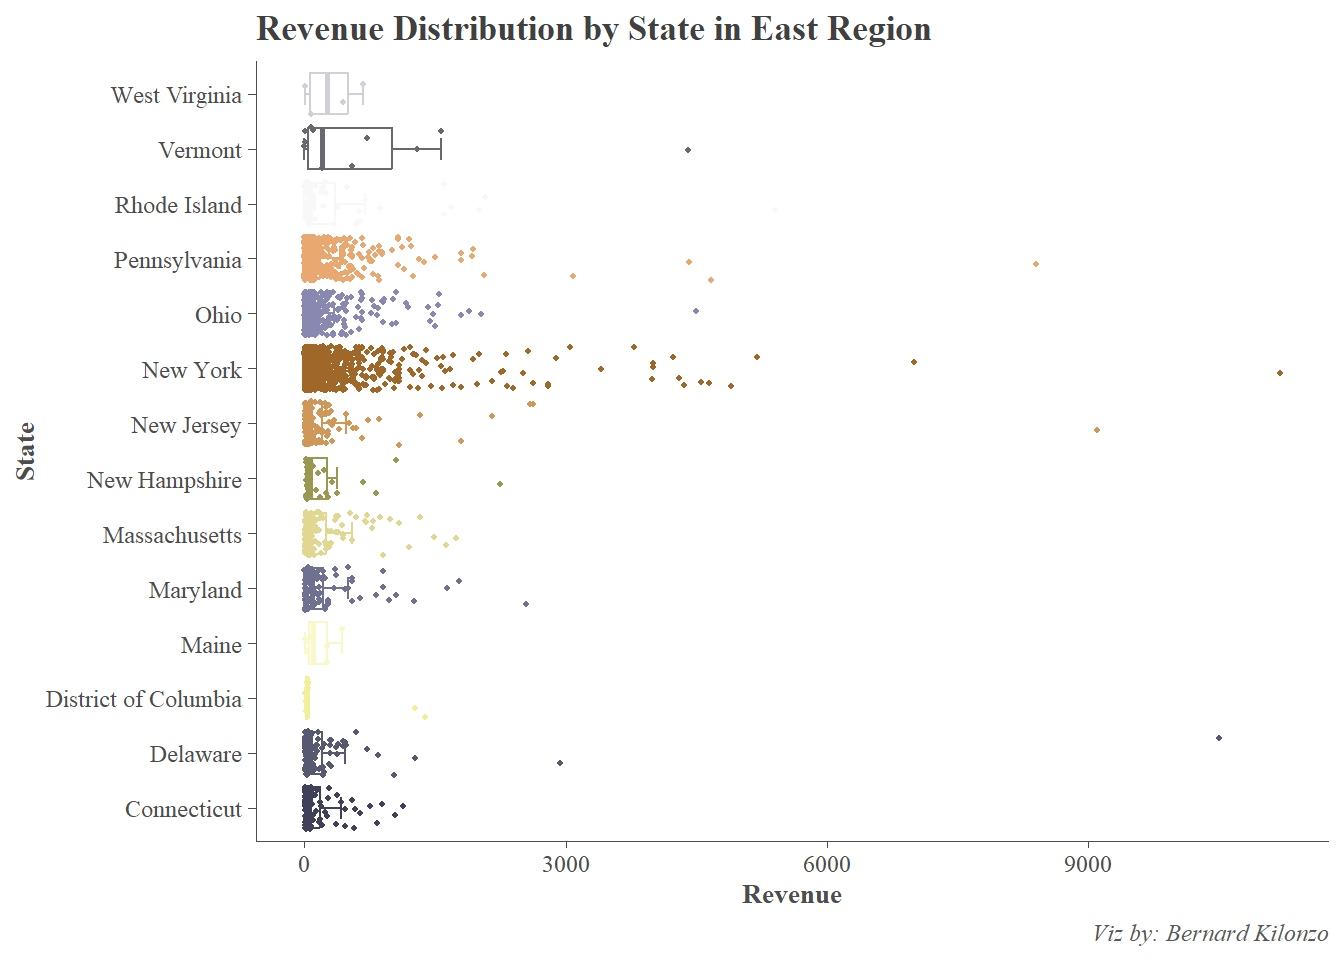
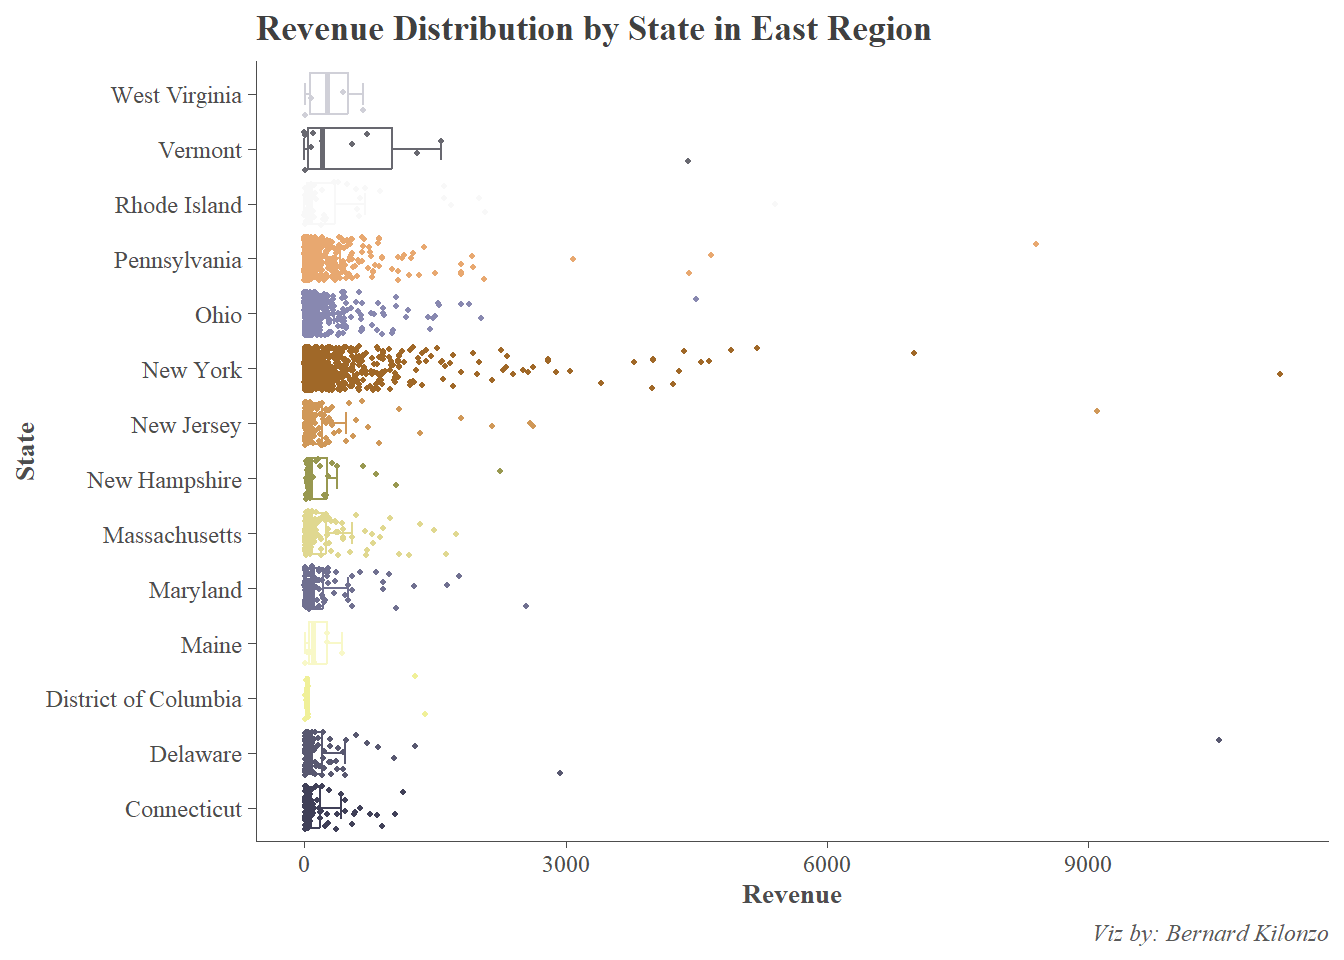
creating jitter box plot for Central Region.

diff --git a/Report Customization/Report_Dashboard_Customization.html b/Report Customization/Report_Dashboard_Customization.html
@@ -7,7 +7,7 @@
 <meta name="viewport" content="width=device-width, initial-scale=1.0, user-scalable=yes">
 
 <meta name="author" content="Bernard Kilonzo">
-<meta name="dcterms.date" content="2026-10-20">
+<meta name="dcterms.date" content="2026-10-21">
 
 <title>Report &amp; Dashboard Customization</title>
 <style>
@@ -283,7 +283,7 @@ background: #023743;
                 <div>
             <div class="quarto-title-meta-heading">Published</div>
             <div class="quarto-title-meta-contents">
-              <p class="date">October 20, 2026</p>
+              <p class="date">October 21, 2026</p>
             </div>
           </div>
           
@@ -856,6 +856,34 @@ background: #023743;
 <div>
 <figure class="figure">
 <p><img src="Report_Dashboard_Customization_files/figure-html/unnamed-chunk-17-1.png" class="img-fluid figure-img" width="672"></p>
+</figure>
+</div>
+</div>
+</div>
+<div class="cell">
+<details class="code-fold">
+<summary>Show the code</summary>
+<div class="sourceCode cell-code" id="cb18"><pre class="sourceCode r code-with-copy"><code class="sourceCode r"><span id="cb18-1"><a href="#cb18-1" aria-hidden="true" tabindex="-1"></a><span class="co">#creating jitter box plot</span></span>
+<span id="cb18-2"><a href="#cb18-2" aria-hidden="true" tabindex="-1"></a>superstore<span class="sc">%&gt;%</span><span class="fu">filter</span>(Region<span class="sc">==</span><span class="st">"Central"</span>)<span class="sc">%&gt;%</span><span class="fu">ggplot</span>(<span class="fu">aes</span>(<span class="at">y =</span> State, <span class="at">x =</span> Sales, <span class="at">color =</span> State))<span class="sc">+</span></span>
+<span id="cb18-3"><a href="#cb18-3" aria-hidden="true" tabindex="-1"></a>  <span class="fu">stat_boxplot</span>(<span class="at">geom =</span> <span class="st">"errorbar"</span>,<span class="at">width =</span><span class="fl">0.4</span>)<span class="sc">+</span></span>
+<span id="cb18-4"><a href="#cb18-4" aria-hidden="true" tabindex="-1"></a>  <span class="fu">geom_boxplot</span>(<span class="at">outlier.color =</span> <span class="cn">NA</span>)<span class="sc">+</span><span class="co">#removing the outliers</span></span>
+<span id="cb18-5"><a href="#cb18-5" aria-hidden="true" tabindex="-1"></a>  <span class="fu">geom_jitter</span>(<span class="at">size =</span><span class="fl">0.7</span>)<span class="sc">+</span></span>
+<span id="cb18-6"><a href="#cb18-6" aria-hidden="true" tabindex="-1"></a>  <span class="fu">scale_color_paletteer_d</span>(<span class="st">"palettetown::snorlax"</span>)<span class="sc">+</span></span>
+<span id="cb18-7"><a href="#cb18-7" aria-hidden="true" tabindex="-1"></a>  <span class="fu">labs</span>(<span class="at">title =</span> <span class="st">"Revenue Distribution by State in Central Region"</span>,</span>
+<span id="cb18-8"><a href="#cb18-8" aria-hidden="true" tabindex="-1"></a>       <span class="at">caption =</span> <span class="st">"Viz by: Bernard Kilonzo"</span>, <span class="at">x =</span> <span class="st">"Revenue"</span>)<span class="sc">+</span></span>
+<span id="cb18-9"><a href="#cb18-9" aria-hidden="true" tabindex="-1"></a>  <span class="fu">theme</span>(<span class="at">panel.background =</span> <span class="fu">element_blank</span>(),</span>
+<span id="cb18-10"><a href="#cb18-10" aria-hidden="true" tabindex="-1"></a>        <span class="at">axis.line =</span> <span class="fu">element_line</span>(<span class="at">color =</span> <span class="st">"gray30"</span>, <span class="at">linewidth =</span> <span class="fl">0.2</span>),</span>
+<span id="cb18-11"><a href="#cb18-11" aria-hidden="true" tabindex="-1"></a>        <span class="at">axis.ticks =</span> <span class="fu">element_line</span>(<span class="at">color =</span> <span class="st">"gray30"</span>, <span class="at">linewidth =</span> <span class="fl">0.2</span>),</span>
+<span id="cb18-12"><a href="#cb18-12" aria-hidden="true" tabindex="-1"></a>        <span class="at">axis.title =</span> <span class="fu">element_text</span>(<span class="at">family =</span> <span class="st">"serif"</span>, <span class="at">size =</span> <span class="dv">10</span>,<span class="at">face =</span> <span class="st">"bold"</span>, <span class="at">color =</span> <span class="st">"gray30"</span>),</span>
+<span id="cb18-13"><a href="#cb18-13" aria-hidden="true" tabindex="-1"></a>        <span class="at">axis.text =</span> <span class="fu">element_text</span>(<span class="at">family =</span> <span class="st">"serif"</span>, <span class="at">size =</span> <span class="dv">9</span>, <span class="at">color =</span> <span class="st">"gray30"</span>),</span>
+<span id="cb18-14"><a href="#cb18-14" aria-hidden="true" tabindex="-1"></a>        <span class="at">legend.position =</span> <span class="st">"none"</span>,</span>
+<span id="cb18-15"><a href="#cb18-15" aria-hidden="true" tabindex="-1"></a>        <span class="at">plot.title =</span> <span class="fu">element_text</span>(<span class="at">family =</span> <span class="st">"serif"</span>, <span class="at">face =</span> <span class="st">"bold"</span>, <span class="at">size =</span> <span class="dv">13</span>, <span class="at">color =</span> <span class="st">"gray25"</span>),</span>
+<span id="cb18-16"><a href="#cb18-16" aria-hidden="true" tabindex="-1"></a>        <span class="at">plot.caption =</span> <span class="fu">element_text</span>(<span class="at">family =</span> <span class="st">"serif"</span>, <span class="at">face =</span> <span class="st">"italic"</span>, <span class="at">size =</span> <span class="dv">9</span>, <span class="at">color =</span> <span class="st">"gray35"</span>))</span></code><button title="Copy to Clipboard" class="code-copy-button"><i class="bi"></i></button></pre></div>
+</details>
+<div class="cell-output-display">
+<div>
+<figure class="figure">
+<p><img src="Report_Dashboard_Customization_files/figure-html/unnamed-chunk-18-1.png" class="img-fluid figure-img" width="672"></p>
 </figure>
 </div>
 </div>
